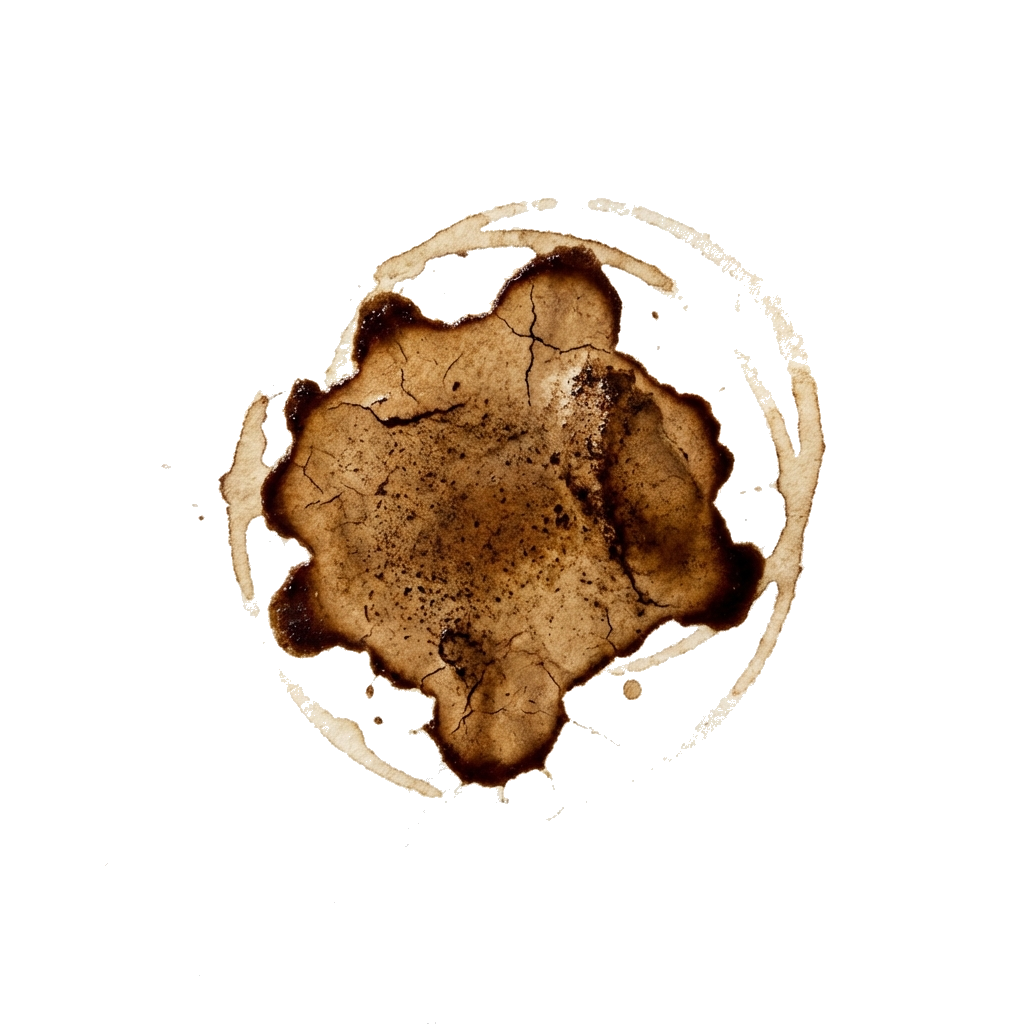
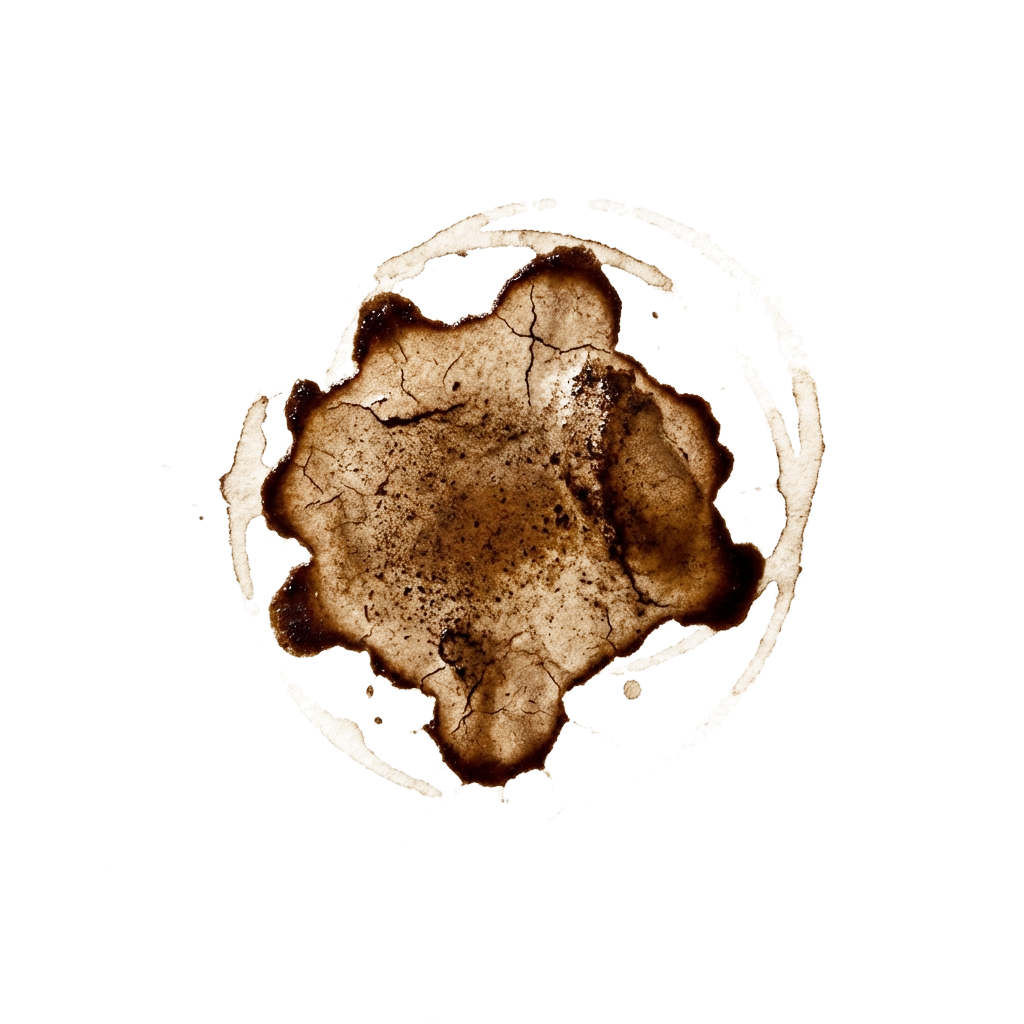
Fix: Removed stain artifacts via Luminance Masking and deleted clumped asset

diff --git a/make_transparent.py b/make_transparent.py
@@ -1,34 +1,42 @@
 from PIL import Image
 import os
 import glob
-import math
 
-def distance(c1, c2):
-    (r1, g1, b1) = c1[:3]
-    (r2, g2, b2) = c2[:3]
-    return math.sqrt((r1 - r2)**2 + (g1 - g2)**2 + (b1 - b2)**2)
-
-def remove_background(image_path, tolerance=30):
+def apply_luminance_transparency(image_path):
     try:
-        img = Image.open(image_path)
-        img = img.convert("RGBA")
+        img = Image.open(image_path).convert("RGBA")
         datas = img.getdata()
-        
-        # Sample the top-left pixel as the background color
-        bg_color = datas[0]
         
         new_data = []
         for item in datas:
-            # Check modification: if the pixel is close to the background color -> transparent
-            # Also checking for pure white just in case
-            if distance(item, bg_color) < tolerance or (item[0] > 240 and item[1] > 240 and item[2] > 240):
-                new_data.append((255, 255, 255, 0))
+            r, g, b, a = item
+            
+            # Calculate brightness (Luminance)
+            # Standard formula: 0.299*R + 0.587*G + 0.114*B, but simple average is fine for this
+            brightness = (r + g + b) / 3
+            
+            # INVERT brightness for Alpha
+            # White (255) -> Alpha 0
+            # Black (0) -> Alpha 255
+            # We add a "threshold" to clip near-whites to pure transparency
+            threshold = 20 # Clip anything brighter than 235/255 to fully transparent
+            
+            if brightness > (255 - threshold):
+                new_alpha = 0
             else:
-                new_data.append(item)
+                # Scale the remaining range
+                # The darker the pixel, the more opaque it is.
+                # We multiply by a factor to make the stain distinct
+                new_alpha = int((255 - brightness) * 1.5) 
+                new_alpha = min(new_alpha, 255) # Cap at 255
+            
+            # Keep the original color but use the new Alpha
+            # OPTIONAL: Darken the color slightly to make it look wet
+            new_data.append((r, g, b, new_alpha))
 
         img.putdata(new_data)
         img.save(image_path, "PNG")
-        print(f"Processed: {image_path}")
+        print(f"Processed (Luminance): {image_path}")
     except Exception as e:
         print(f"Failed {image_path}: {e}")
 
@@ -37,4 +45,4 @@ target_dir = "/home/meow/Documents/Antigravity/CREAFcoffee/images"
 files = glob.glob(os.path.join(target_dir, "*.png"))
 
 for f in files:
-    remove_background(f, tolerance=50) # Increased tolerance
+    apply_luminance_transparency(f)
